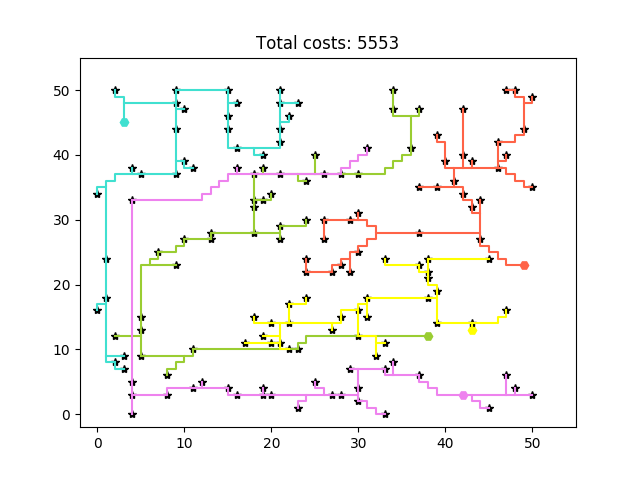
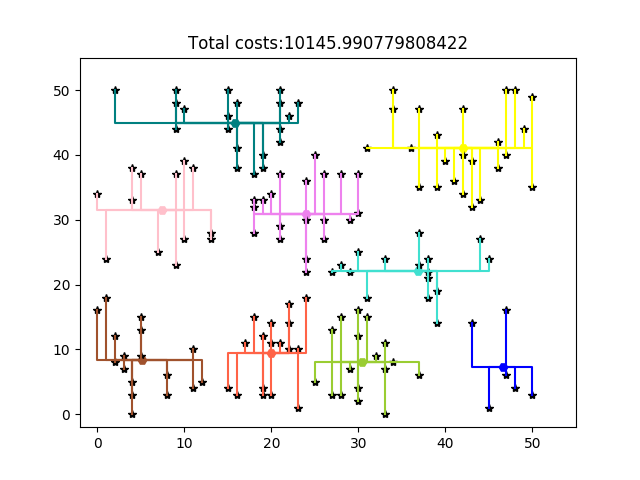
fixed helpers

diff --git a/code/helpers/helpers.py b/code/helpers/helpers.py
@@ -1,31 +1,33 @@
 from operator import itemgetter
 from math import sqrt
 import matplotlib.pyplot as plt
-from random import choice
+from random import choice, sample, shuffle
 from node import Node
+import random
+import numpy as np
+from sklearn.cluster import KMeans
 
 
-def get_houses_to_batteries_distances(district, batteries):
-    houses_to_batteries_distances = {}
+def get_houses_to_batteries_distances(district, batteries, district_nr):
+    """Get all distances to all batteries for each house and pair them."""
+    houses_to_batteries_distances = []
     for house in district:
-        houses_to_batteries_distances[house] = []
-
+        distances = []
         for battery in batteries:
-            houses_to_batteries_distances[house].append(
-                abs(battery.x-house.x) + abs(battery.y - house.y)
-            )
-    houses_to_batteries_distances = {house: distance for house, distance in 
-        sorted(houses_to_batteries_distances.items(), key=lambda item: sum(item[1]), reverse=True)
-        }
+            distances.append(abs(battery.x - house.x) + abs(battery.y - house.y))
+        houses_to_batteries_distances.append((house, distances))
+    houses_to_batteries_distances = sorted(houses_to_batteries_distances, 
+                                key=lambda item: sum(item[1]), reverse=True)
+    if district_nr != 1:                
+        sample_items = sample(houses_to_batteries_distances, 5)
+        for item in sample_items:
+            houses_to_batteries_distances.remove(item)
+            houses_to_batteries_distances.append(item)
     
-    # house, distances = choice(tuple(houses_to_batteries_distances.items()))
-    # print(house)
-    # del houses_to_batteries_distances[house]
-    # houses_to_batteries_distances[house] = distances
-
     return houses_to_batteries_distances
 
 def get_house_to_batteries_distances(distances):
+    """Get distances to all batteries for a given house."""
     house_to_batteries_distances = {}
     for battery_nr, distance in enumerate(distances, 1):
         house_to_batteries_distances[battery_nr] = distance
@@ -33,9 +35,17 @@ def get_house_to_batteries_distances(distances):
     return house_to_batteries_distances
 
 def get_coordinates(node1, node2):
+    """Create a coordinate path from one node to the other, 
+    with only one corner point.
+    """
+
     return ([node1.x, node1.x, node2.x], [node1.y, node2.y, node2.y])
 
 def get_node_coordinates(path):
+    """Create a coordinate path from one node to the other, 
+    for each node on the path.
+    """
+
     x_co = []
     y_co = []
     for node in path:
@@ -44,6 +54,7 @@ def get_node_coordinates(path):
     return (x_co, y_co)
 
 def get_neighbours(x1, y1):
+    """Get all neighbours for a given point on the grid."""
     DISTRICT_SIZE = 51
     neighbours = []
     feasible_points = list(range(DISTRICT_SIZE))
@@ -61,22 +72,16 @@ def get_neighbours(x1, y1):
 
     return neighbours
 
-def locate_mins(open_set):
-    _, h = min(open_set.items(), key=itemgetter(1))
-    all_mins = []
-    for node, cost in open_set.items():
-        if cost == h:
-            all_mins.append((node, cost))
-    return all_mins
-
 def pathfinder(start, target):
+    """Create a path between to points using a Eucilian distance 
+    heuristic.
+    """
+
     path = []
-    open_set = {start: sqrt((start.x - target.x)**2 + (start.y - target.y)**2) } # nodes to be evaluated # h = distance from end node
-    closed_set = {} # nodes already evaluated
+    open_set = {start: sqrt((start.x - target.x)**2 + (start.y - target.y)**2) } 
+    closed_set = {} 
     while True:
         current, h = min(open_set.items(), key=itemgetter(1))
-        # all_options = locate_mins(open_set)
-        # current, h = choice(all_options)
         path.append(current)
         del open_set[current]
         closed_set[current] = h
@@ -90,21 +95,69 @@ def pathfinder(start, target):
                 continue
 
             if neighbour not in open_set.keys():
-                open_set[neighbour] = sqrt((neighbour.x - target.x)**2 + (neighbour.y - target.y)**2)
+                open_set[neighbour] = sqrt((neighbour.x - target.x)**2 + 
+                                            (neighbour.y - target.y)**2)
                 
 def get_manhattan_distance(point1, point2):
+    """Get the manhattan distances between two points."""
     return abs(point1.x - point2.x) + abs(point1.y - point2.y)
 
 def swap(potential_house, potential_battery,chosen_house, chosen_battery):
+    """Swap two houses with each other and allocate to their new battery."""
     potential_battery.remove_house(potential_house)
     chosen_battery.remove_house(chosen_house)
     chosen_battery.add_house(potential_house)
     potential_battery.add_house(chosen_house)
 
 def reverse_swap(potential_house, potential_battery,chosen_house, chosen_battery):
+    """Swap two houses with each other and allocate to their new battery.
+    In doing so, reverse the initial swap."""
 
     potential_battery.remove_house(chosen_house)
     chosen_battery.remove_house(potential_house)
     chosen_battery.add_house(chosen_house)
     potential_battery.add_house(potential_house)
 
+
+def get_random_batteries(district):
+    # Calculate total battery capacity needed
+    total_usage = 0
+    for house in district:
+        total_usage += house.power
+
+    # Possible battery types
+    battery_types = {"PowerStar": {"capacity": 450, "price": 900}, "Imerse-II": {
+        "capacity": 900, "price": 900}, "Imerse-III": {"capacity": 1800, "price": 1800}}
+
+    # Choose a random battery
+    battery = random.choice(list(battery_types.items()))
+
+    batteries = []
+
+    # Choose random battery till capacity exceeds total district usage
+    while total_usage >= 0:
+        batteries.append(battery)
+        # Subtract capacity of added battery from total usage
+        total_usage -= battery[1]['capacity']
+        # Choose new randopm battery
+        battery = random.choice(list(battery_types.items()))
+
+    return batteries
+
+
+def get_clusters(district, batteries):
+    points = []
+    for house in district:
+        coordinate = [house.x, house.y]
+        points.append(coordinate)
+    points = np.array(points)
+
+    # Create a kmeans object
+    kmeans = KMeans(n_clusters=len(batteries))
+
+    # Fit the kmeans object to the dataset
+    labels = kmeans.fit_predict(points)
+
+    clusters = kmeans.cluster_centers_
+
+    return labels, points, clusters
